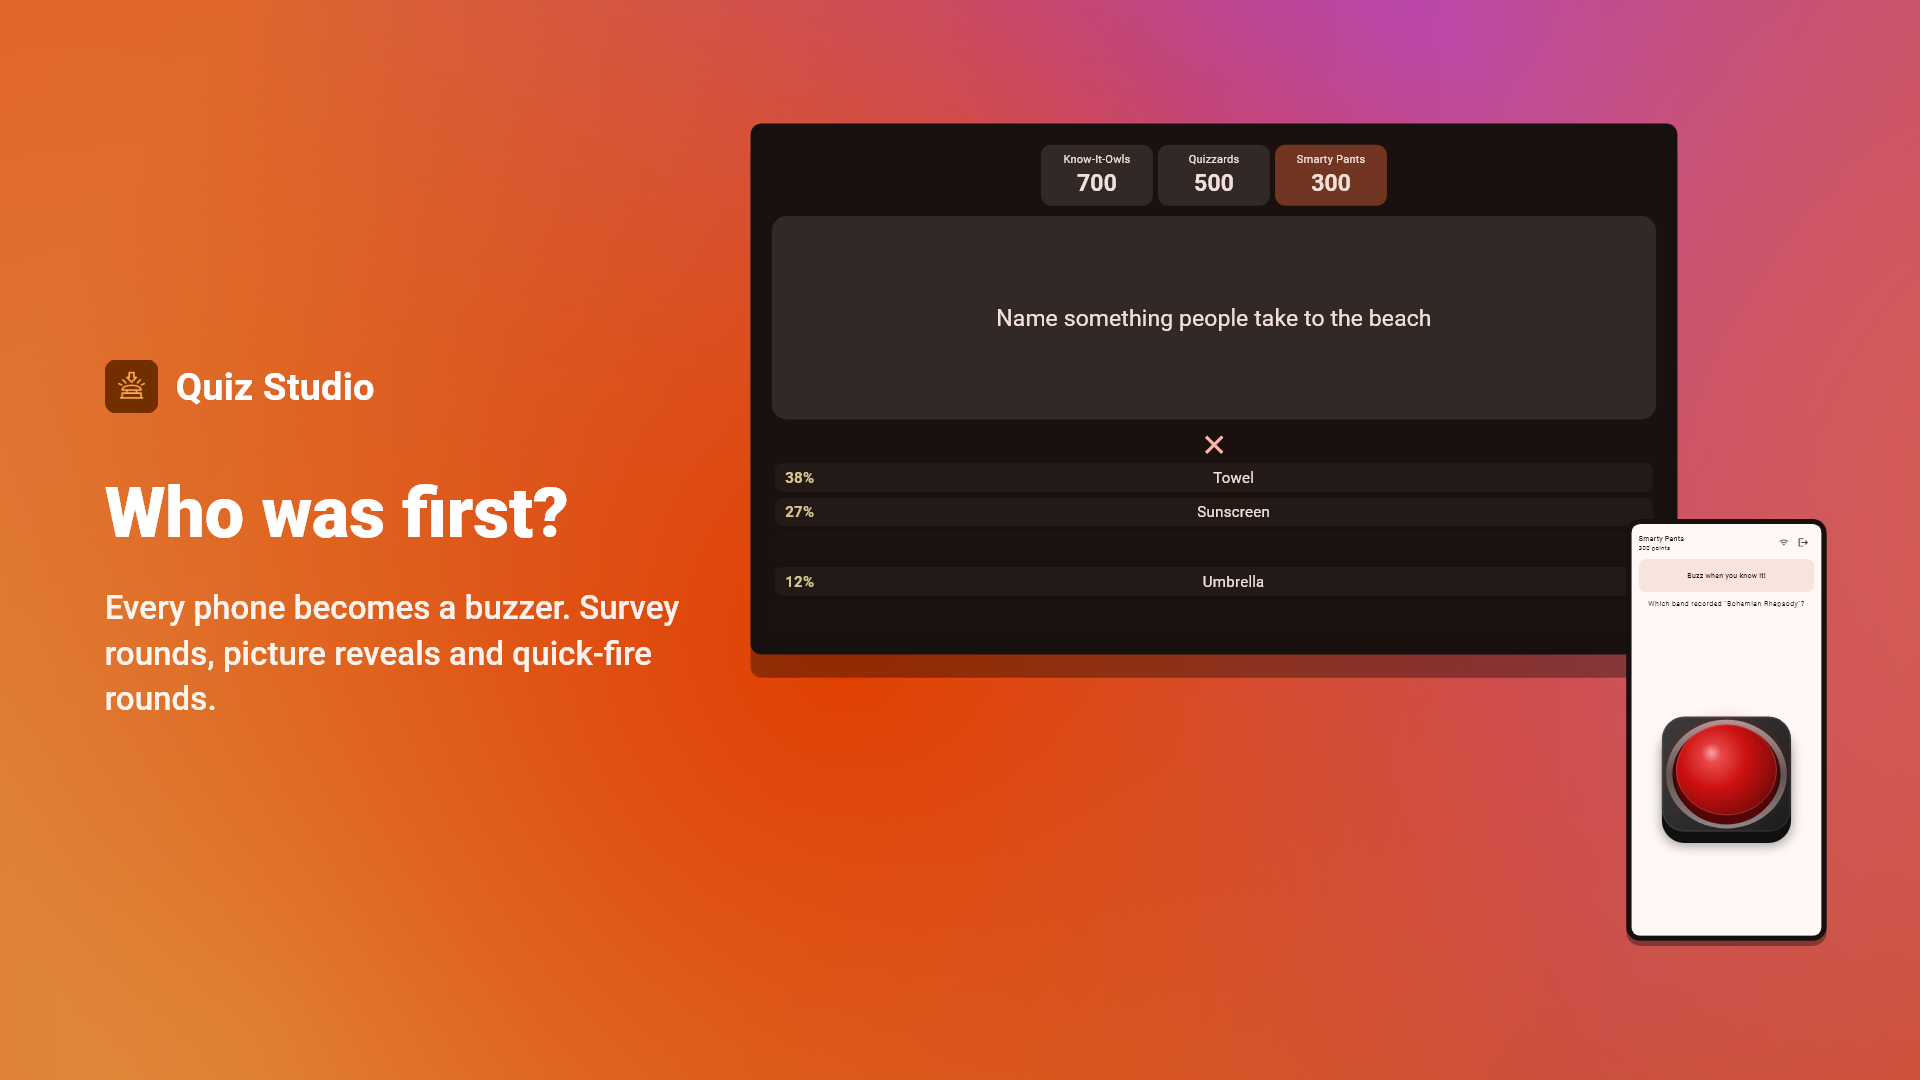
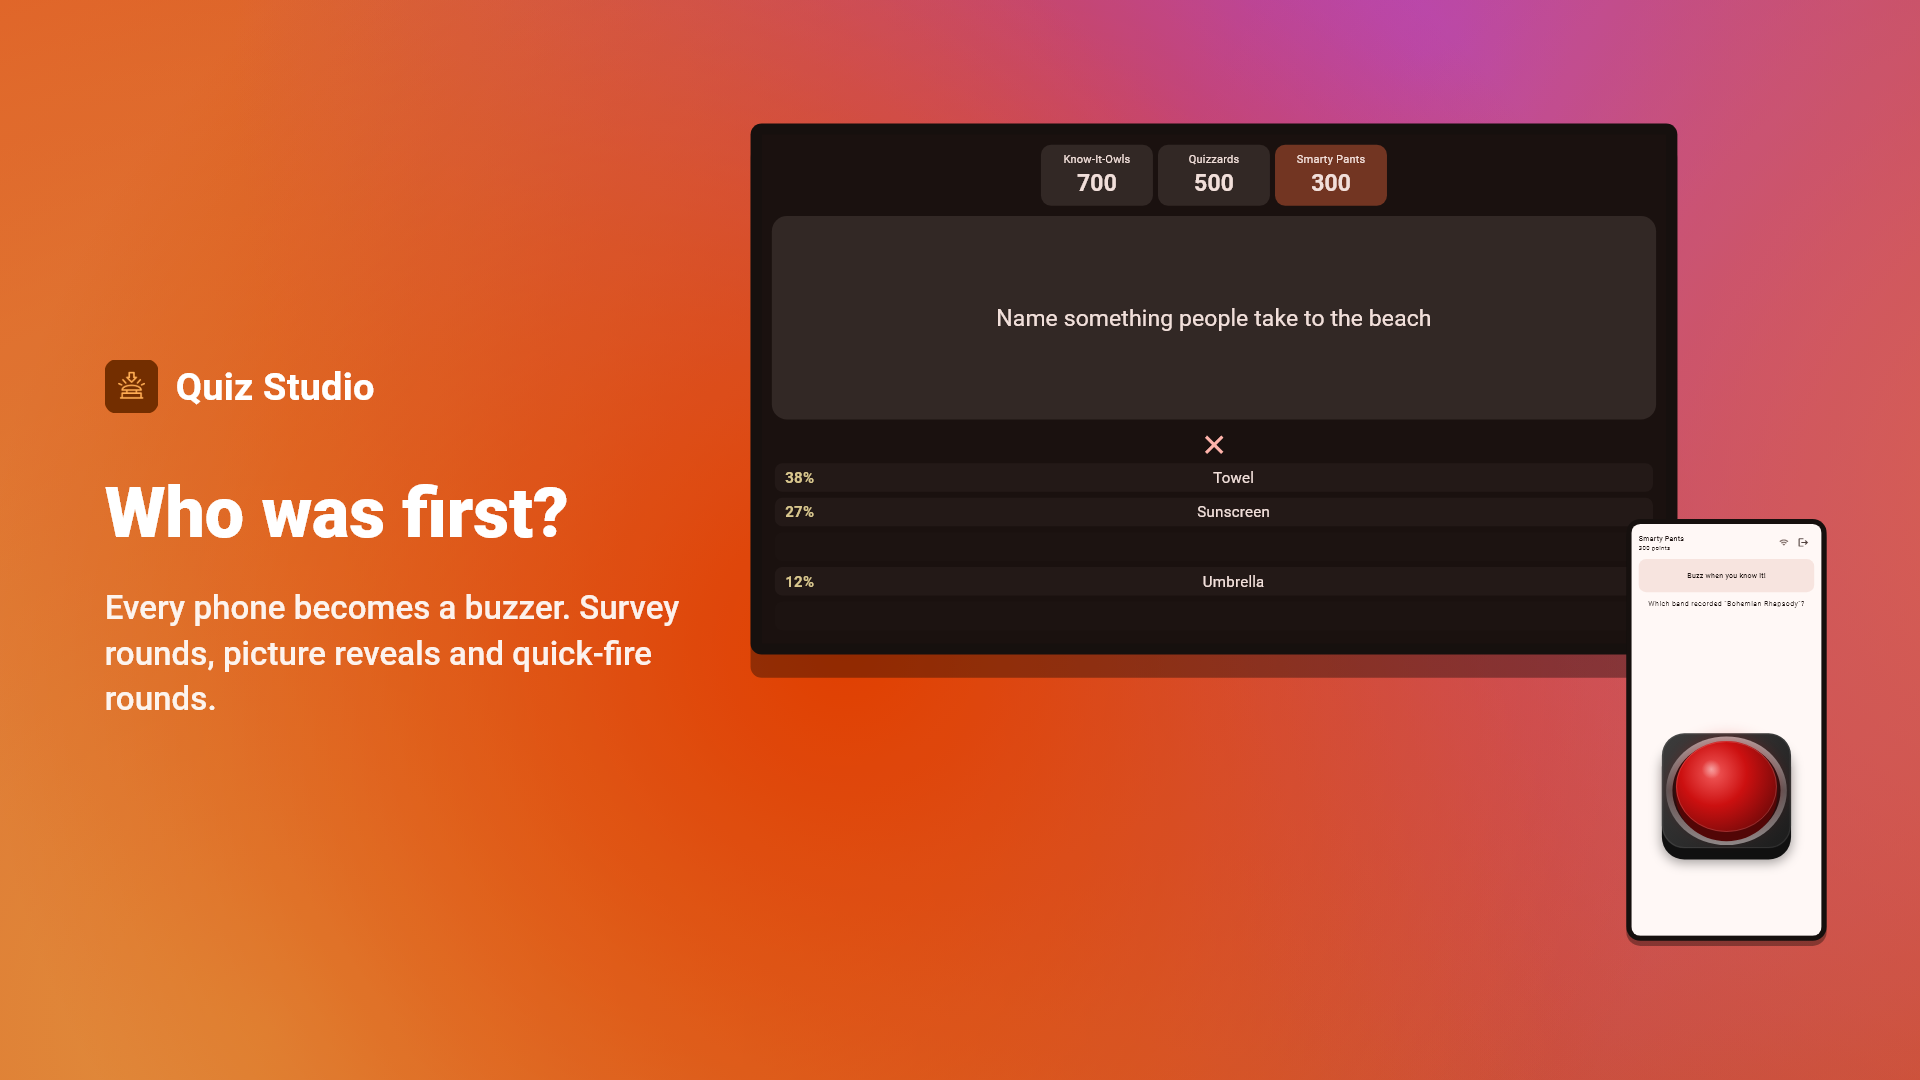
Team devices keep room for six lines of question under the buzzer status

Changed region(s): [[0.8438, 0.6417, 0.9375, 0.825]]

diff --git a/lib/features/player/pages/player_page.dart b/lib/features/player/pages/player_page.dart
@@ -340,7 +340,8 @@ class _PlayerViewState extends State<PlayerView> {
     if (kind == null) {
       // The buzzer keeps its place while the lines above change, as they do
       // with every Fragenhagel item: the status and the question each get
-      // room for as many lines as they may take.
+      // room for as many lines as they may take, the question rather too
+      // much than too little.
       final scaler = MediaQuery.textScalerOf(context);
       double lines(TextStyle? style, int count) => scaler.scale(style?.fontSize ?? 16) * (style?.height ?? 1.2) * count;
       final statusStyle = theme.textTheme.titleMedium;
@@ -371,10 +372,10 @@ class _PlayerViewState extends State<PlayerView> {
             ),
             const SizedBox(height: 12),
             SizedBox(
-              height: lines(questionStyle, 3),
+              height: lines(questionStyle, 6),
               child: Align(
                 alignment: Alignment.topCenter,
-                child: Text(question, textAlign: TextAlign.center, maxLines: 3, overflow: TextOverflow.ellipsis, style: questionStyle),
+                child: Text(question, textAlign: TextAlign.center, maxLines: 6, overflow: TextOverflow.ellipsis, style: questionStyle),
               ),
             ),
             if (!view.phoneBuzzer)
